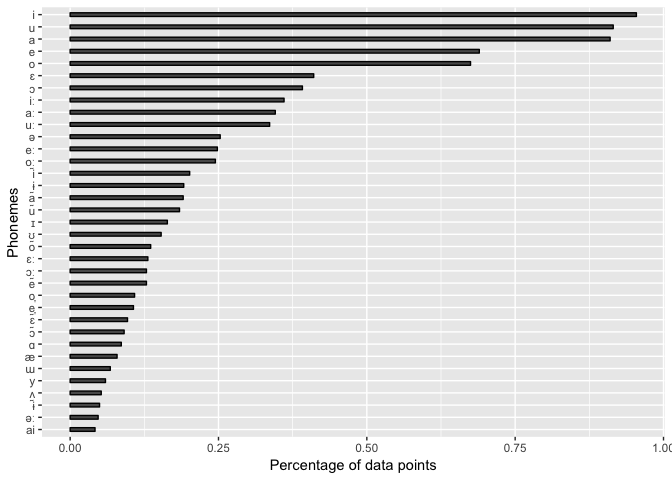
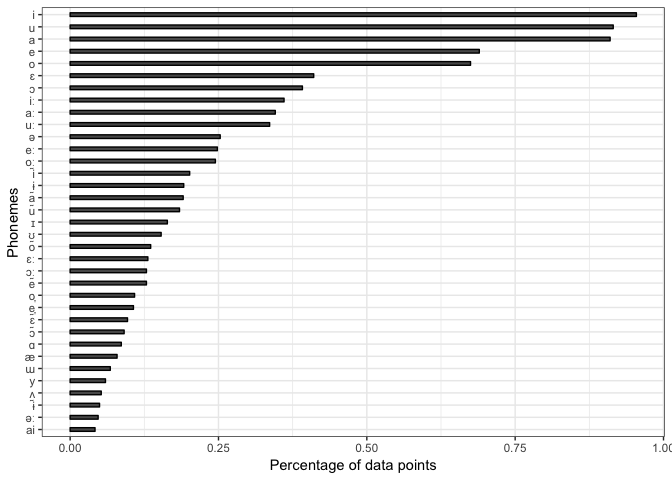
add theme bw

diff --git a/frequency/segment-frequency.md b/frequency/segment-frequency.md
@@ -5,6 +5,10 @@ Steven Moran &lt;<steven.moran@uzh.ch>&gt;
 ``` r
 library(dplyr)
 library(ggplot2)
+
+theme_set(
+  theme_bw()
+)
 ```
 
 ``` r
@@ -261,10 +265,6 @@ z <- left_join(y, phonemes.sorted, by=c("Phoneme"="Phoneme"))
 ```
 
 ``` r
-theme_set(
-  theme_bw()
-)
-
 # Get top n by area
 top.by.area <- z %>% group_by(macroarea) %>% filter(SegmentClass=="consonant") %>% top_n(n = 10, wt = coverage.y)
 
@@ -291,3 +291,7 @@ p + coord_flip()
 ```
 
 ![](segment-frequency_files/figure-markdown_github/unnamed-chunk-18-1.png)
+
+``` r
+# TODO: order within each bar group
+```
